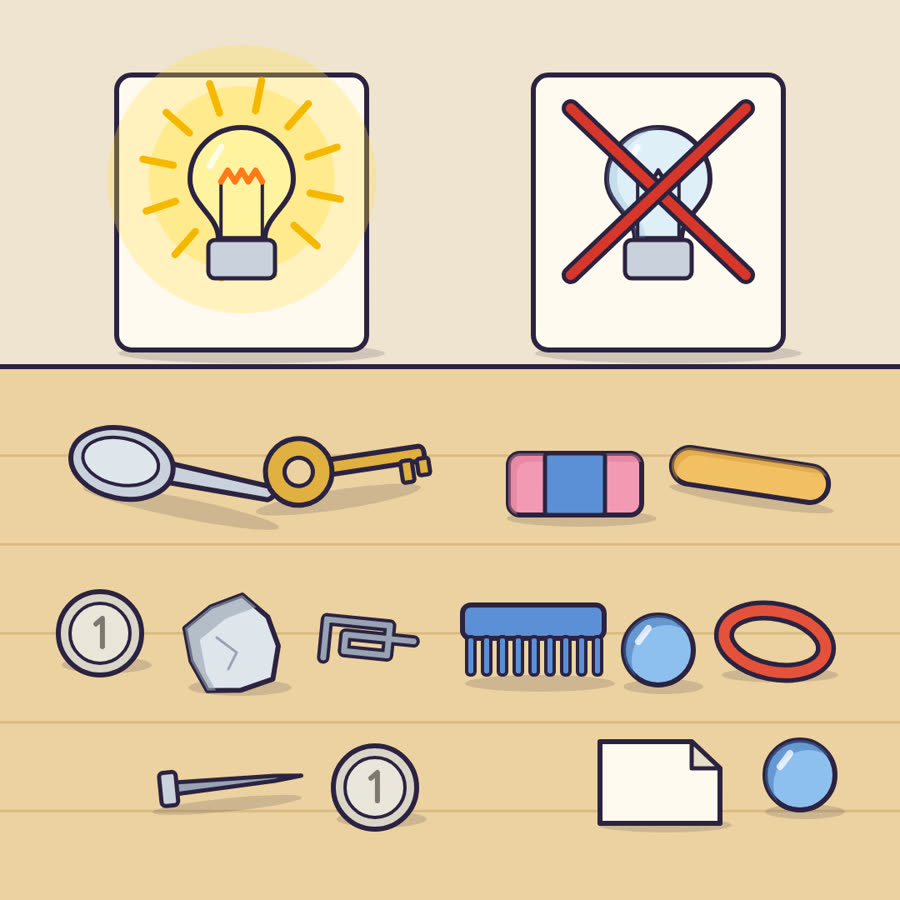
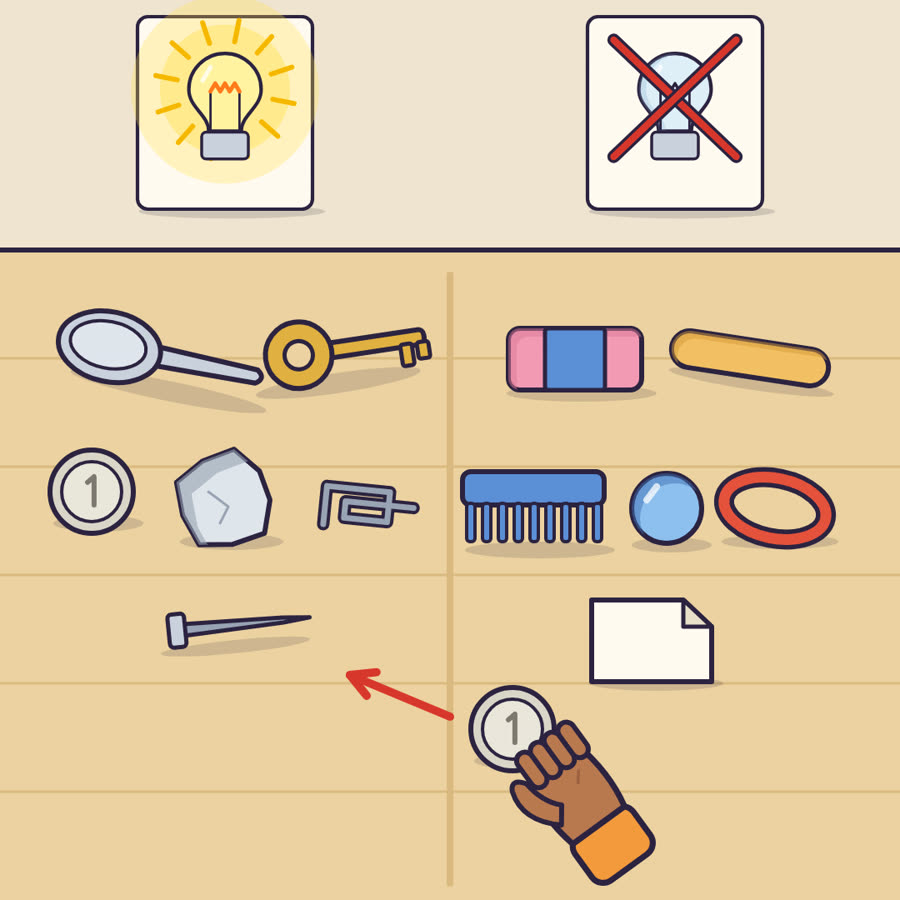
Set-up drawings and unit pictures in progress (saved, not built)
Claude-Session: https://claude.ai/code/session_01JToV3XHh1vEGaLuTjTUjQr

diff --git a/app/build/drawings/su_electricitySimpleCircuits.ts b/app/build/drawings/su_electricitySimpleCircuits.ts
@@ -138,12 +138,15 @@ const e1_0 = (c: Ctx) => {
   wire(c, [[116, B + 4], [116, B + 200], [330, B + 200]], BLACKW); tip(c, 330, B + 200, 0, 44);
   arrow(c, [[400, B + 300], [450, B + 300]]); arrow(c, [[540, B + 300], [490, B + 300]]);
 };
-// setup.e1.1
+// setup.e1.1 : two piles. Left under the lit bulb (metal things), right under the crossed bulb; a hand sorts one in
 const e1_1 = (c: Ctx) => {
-  table(c, 440);
-  label(c, 290, true); label(c, 790, false);
-  spoon(c, 215, 570, 0.2); key(c, 400, 560, -0.15); coin(c, 120, 760); foil(c, 280, 775); paperclip(c, 440, 770, 0.1); nail(c, 270, 940, -0.1); coin(c, 450, 945);
-  eraser(c, 690, 580); stick(c, 900, 570, 0.15); comb(c, 640, 760); marble(c, 790, 780); band(c, 930, 770); paper(c, 790, 940); marble(c, 960, 930);
+  table(c, 300);
+  for (const [x, lit] of [[270, true], [810, false]] as [number, boolean][]) { c.save(); c.translate(x, 20); c.scale(0.7, 0.7); c.translate(-x, -90); label(c, x, lit); c.restore(); }
+  line(c, [[540, 330], [540, 1060]], 8, WOODLN);
+  spoon(c, 200, 430, 0.2); key(c, 400, 420, -0.15); coin(c, 110, 590); foil(c, 270, 600); paperclip(c, 440, 610, 0.1); nail(c, 280, 750, -0.1);
+  eraser(c, 690, 430); stick(c, 900, 430, 0.15); comb(c, 640, 600); marble(c, 800, 610); band(c, 930, 610); paper(c, 780, 770);
+  coin(c, 615, 875); hand(c, 700, 965, -2.2, 1.2, SKIN.child, CLOTH.child, false);
+  arrow(c, [[540, 860], [420, 810]]);
 };
 // setup.e1.2
 const e1_2 = (c: Ctx) => {
@@ -155,13 +158,18 @@ const e1_2 = (c: Ctx) => {
   hand(c, 330, 965, -0.9, 1.3, SKIN.adult, CLOTH.adult, false); hand(c, 800, 965, -2.4, 1.3, SKIN.adult, CLOTH.adult, false);
   tip(c, 395, 885, -0.5, 60); tip(c, 725, 890, -2.6, 70);
 };
+// a bare twisted join of two wires, with a number flag standing on it
+const twist = (c: Ctx, x: number, y: number) => {
+  shape(c, () => ell(c, x, y, 30, 22), COPPER, 5);
+  for (let i = -1; i <= 1; i++) line(c, [[x + i * 12 - 9, y - 18], [x + i * 12 + 9, y + 18]], 4, INK);
+};
 // setup.e2.0
 const e2_0 = (c: Ctx) => {
   const B = 570; loopCell(c, B, 780, 2);
   wire(c, [[334, B + 4], [334, B + 110], [540, B + 110]], RED); wire(c, [[540, B + 110], [735, B + 110], [735, B + 4]], RED);
   wire(c, [[826, B + 4], [826, B + 230], [116, B + 230], [116, B + 4]], BLACKW);
-  clip(c, 540, B + 110);
-  flag(c, 334, B + 110, "1"); flag(c, 540, B + 110, "2"); flag(c, 735, B + 110, "3");
+  twist(c, 334, B + 110); twist(c, 540, B + 110); twist(c, 735, B + 110);
+  flag(c, 334, B + 90, "1"); flag(c, 540, B + 90, "2"); flag(c, 735, B + 90, "3");
 };
 // setup.e2.1
 const e2_1 = (c: Ctx) => {
